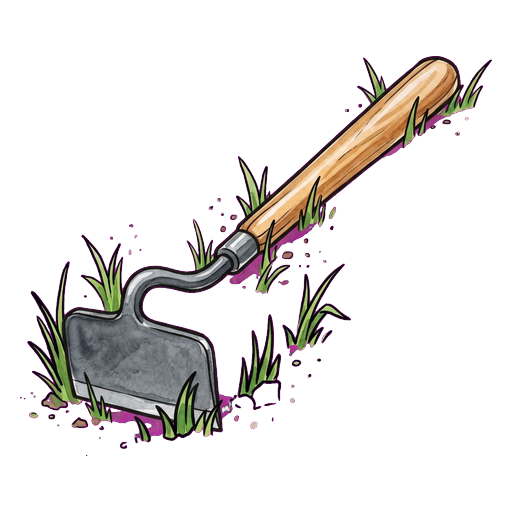
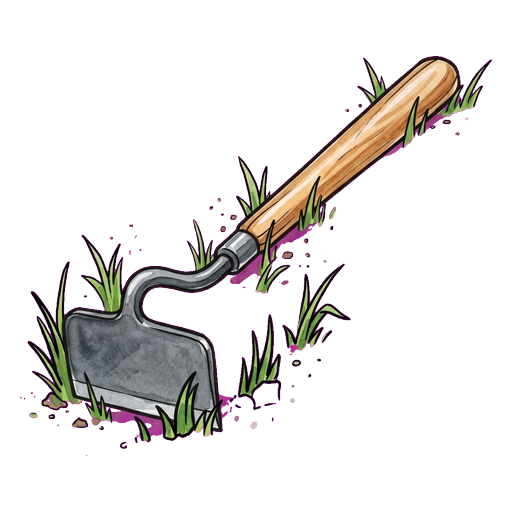
Sticker: fix drop shadow residue on Shovel, Trowel, Garden Fork, Rake, Garden Hoe (flood-fill pass added to pipeline)

diff --git a/tools/process-rob-images.py b/tools/process-rob-images.py
@@ -15,6 +15,7 @@ Usage: python process-rob-images.py <input.jpg|png> <output.png>
 from PIL import Image
 import numpy as np
 import sys, os
+from collections import deque
 
 OUT_SIZE   = 512
 PADDING    = 20       # equal px margin on all sides in output
@@ -56,6 +57,49 @@ def process(input_path, output_path):
     # Step 2: Erase Gemini watermark (bottom strip only — no corner zones)
     # Corner zones were too aggressive and destroyed art pixels near edges.
     data[h-30:h, :, 3] = 0          # bottom 30px full strip (watermark zone)
+
+    # Step 1c: Flood-fill shadow removal
+    # Removes dark semi-transparent drop shadow residue that chroma key misses.
+    # Floods from all 4 edges inward, clearing pixels that are:
+    #   - semi-transparent (alpha < 250), AND dark (luminance < 120)
+    # Stops at fully opaque art pixels, so art is never touched.
+    tmp = data.clip(0, 255).astype(np.uint8)
+    flood_h, flood_w = tmp.shape[:2]
+    visited = np.zeros((flood_h, flood_w), dtype=bool)
+    to_clear = np.zeros((flood_h, flood_w), dtype=bool)
+
+    def is_shadow(r, c):
+        a = tmp[r, c, 3]
+        if a >= 250:
+            return False
+        lum = 0.299 * tmp[r,c,0] + 0.587 * tmp[r,c,1] + 0.114 * tmp[r,c,2]
+        return lum < 120
+
+    q = deque()
+    for row in range(flood_h):
+        for col in [0, flood_w-1]:
+            if not visited[row, col] and is_shadow(row, col):
+                visited[row, col] = True
+                to_clear[row, col] = True
+                q.append((row, col))
+    for col in range(flood_w):
+        for row in [0, flood_h-1]:
+            if not visited[row, col] and is_shadow(row, col):
+                visited[row, col] = True
+                to_clear[row, col] = True
+                q.append((row, col))
+    while q:
+        row, col = q.popleft()
+        for dr, dc in [(-1,0),(1,0),(0,-1),(0,1)]:
+            nr, nc = row+dr, col+dc
+            if 0 <= nr < flood_h and 0 <= nc < flood_w and not visited[nr, nc]:
+                if is_shadow(nr, nc):
+                    visited[nr, nc] = True
+                    to_clear[nr, nc] = True
+                    q.append((nr, nc))
+    tmp[to_clear, 3] = 0
+    print(f"  Shadow flood-fill: cleared {int(to_clear.sum())} pixels")
+    data = tmp.astype(np.float32)
 
     result = Image.fromarray(data.clip(0, 255).astype(np.uint8), "RGBA")
 
